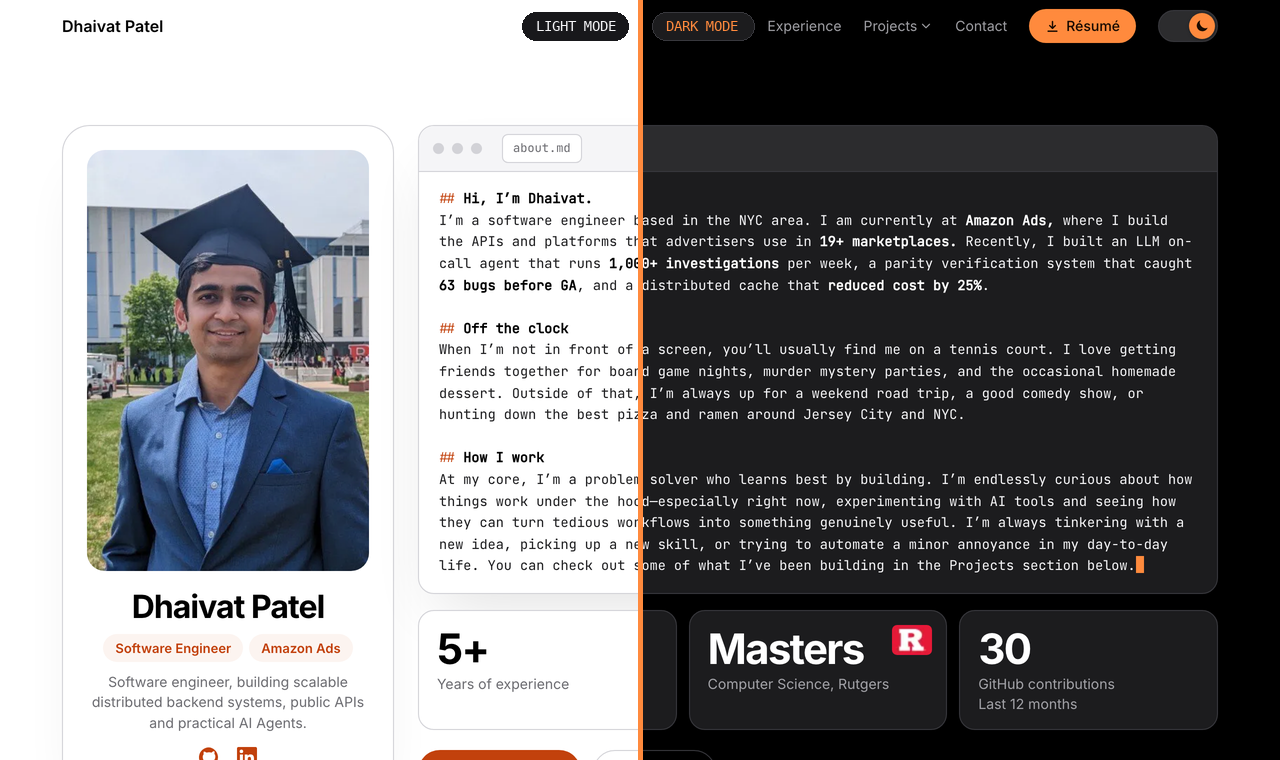
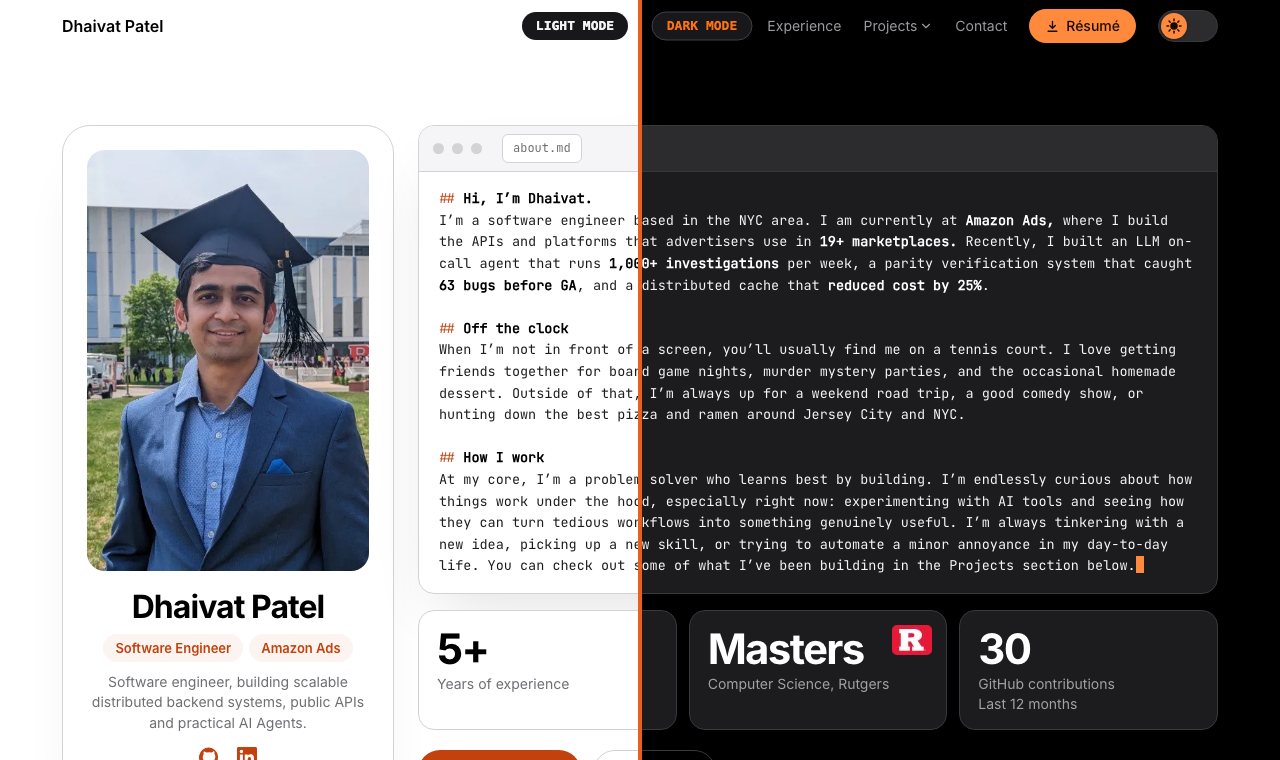
fix(#68): address code review findings across content, media, contact copy, and tests

diff --git a/tests/site/no-em-dashes.spec.ts b/tests/site/no-em-dashes.spec.ts
@@ -1,0 +1,33 @@
+import { readdirSync, readFileSync } from "node:fs";
+import { extname, join, resolve } from "node:path";
+import { expect, test } from "@playwright/test";
+
+const distDir = resolve(import.meta.dirname, "../../dist");
+const EM_DASH_PATTERN = /—|&mdash;|&#8212;|&#x2014;/i;
+
+function listHtmlFiles(dir: string): string[] {
+  const results: string[] = [];
+  for (const entry of readdirSync(dir, { recursive: true, encoding: "utf8" })) {
+    const normalized = entry.replace(/\\/g, "/");
+    if (extname(normalized).toLowerCase() === ".html") {
+      results.push(join(dir, normalized));
+    }
+  }
+  return results.sort();
+}
+
+test("built HTML pages contain zero em dashes", () => {
+  const htmlFiles = listHtmlFiles(distDir);
+  expect(htmlFiles.length).toBeGreaterThan(0);
+
+  const violations: string[] = [];
+  for (const file of htmlFiles) {
+    const html = readFileSync(file, "utf8");
+    const match = html.match(EM_DASH_PATTERN);
+    if (match) {
+      violations.push(`${file.slice(distDir.length + 1)}: matched ${JSON.stringify(match[0])}`);
+    }
+  }
+
+  expect(violations).toEqual([]);
+});

diff --git a/src/contact.ts b/src/contact.ts
@@ -1,7 +1,7 @@
 /**
- * Shared contact form field names and length limits, imported by both
- * `ContactForm.astro` (HTML attributes + client handler) and
- * `functions/api/contact.ts` (server-side validation).
+ * Shared contact form field names, length limits, and copy, imported by
+ * `ContactForm.astro`, `src/pages/contact/sent.astro`, and
+ * `functions/api/contact.ts`.
  */
 export const CONTACT_FIELDS = ["name", "email", "message"] as const;
 export type ContactFieldName = (typeof CONTACT_FIELDS)[number];
@@ -11,3 +11,5 @@ export const CONTACT_LIMITS = {
   email: 254,
   message: 5000,
 } as const satisfies Record<ContactFieldName, number>;
+
+export const CONTACT_SUCCESS_MESSAGE = "Thanks, your message has been sent.";

diff --git a/functions/api/contact.ts b/functions/api/contact.ts
@@ -1,4 +1,4 @@
-import { CONTACT_LIMITS, type ContactFieldName } from "../../src/contact";
+import { CONTACT_LIMITS, CONTACT_SUCCESS_MESSAGE, type ContactFieldName } from "../../src/contact";
 import { site } from "../../src/settings";
 
 interface Env {
@@ -242,5 +242,5 @@ export const onRequestPost: PagesFunction<Env> = async ({ request, env }) => {
     );
   }
 
-  return respondSuccess(json, "Thanks, your message has been sent.");
+  return respondSuccess(json, CONTACT_SUCCESS_MESSAGE);
 };
